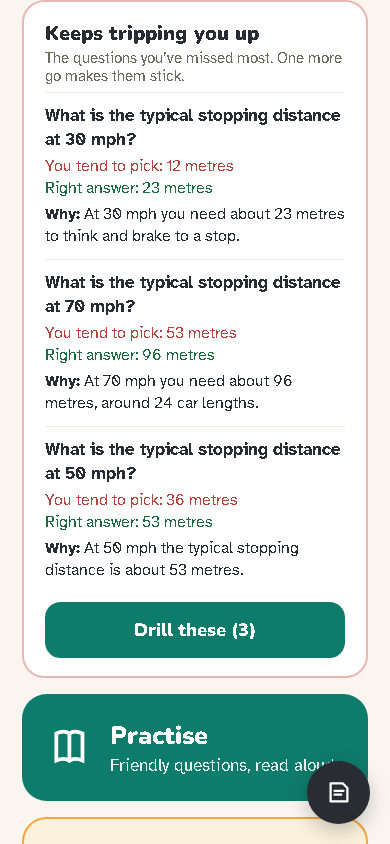
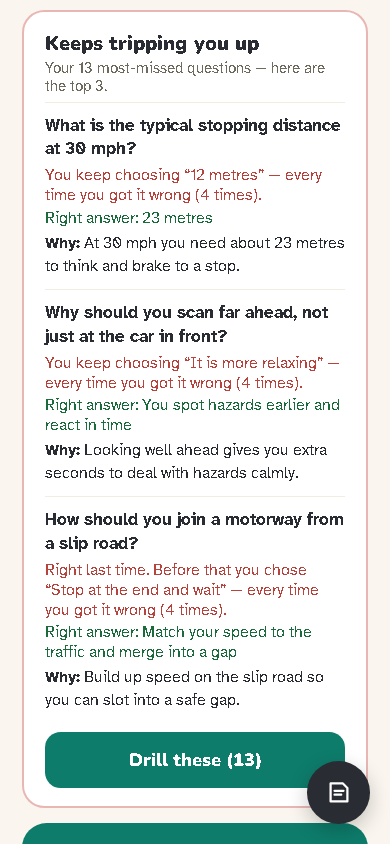
docs(help): How-to guide covers the new coach screens; guide drift test
help.html now explains the pass prediction, what to work on, the study
plan (new section), streak freezes, the badge nudge, "you keep choosing",
the Same wrong answer again filter and the family board (new section,
and its Settings switch). Two lines had gone wrong with this section:
"Miss a day and it starts again from 1" and "You tend to pick".
Five new screenshots, home.png and tripping.png re-taken (390x844).

help.html is the Pages lane's file; its section (#2) had merged and
finished, and its "every Settings switch is explained" test failed on
the new Family board switch, so it is updated here (said on #2 and #8).

Also: a test that the guide's numbers match coach.js and TTInsights,
and the pending-pages skip list removed (every linked page has landed).

diff --git a/help.html b/help.html
@@ -54,9 +54,11 @@
           <li><a href="#answers">My answers and More like this</a></li>
           <li><a href="#signs">Road signs</a></li>
           <li><a href="#progress">My Progress, levels and badges</a></li>
+          <li><a href="#plan">Study plan</a></li>
           <li><a href="#print">Print</a></li>
           <li class="toc-group">Your app</li>
           <li><a href="#settings">Settings</a></li>
+          <li><a href="#family">Family board</a></li>
           <li><a href="#reminders">Daily reminders</a></li>
           <li><a href="#notes">Notes</a></li>
           <li><a href="#offline">Offline and syncing</a></li>
@@ -169,17 +171,20 @@
           <div>
             <p>Home is where every part of the app starts. From the top:</p>
             <ul>
-              <li><strong>Day streak</strong> — how many days in a row you've reached your daily goal. Miss a day and it starts again from 1.</li>
+              <li><strong>Day streak</strong> — how many days in a row you've reached your daily goal. Under it, the <strong>streak freezes</strong> you hold: miss a day and a freeze saves your streak; with none, it starts again. Tap it to see how freezes work. <a href="#freezes">More below.</a></li>
               <li><strong>Today's goal</strong> — questions answered today out of your goal (10, 20 or 30; change it in <span class="path">Settings</span>).</li>
               <li><strong>XP and level</strong> — you earn 10 XP for every right answer and 50 more for passing a mock test. Every 500 XP is a new level, from <em>Provisional</em> up to <em>Full Licence</em>. Tap the level bar to see your <a href="#progress">badges</a>.</li>
-              <li><strong>Countdown</strong> — if you've set your theory test date in <span class="path">Settings</span>, Home shows the days left.</li>
+              <li><strong>Close to a badge</strong> — once you're most of the way to a badge, the level card says what's left, for example "2 more right answers in a row earns Ten in a row".</li>
+              <li><strong>Countdown</strong> — if you've set your theory test date, Home shows the days left and how many questions today's plan asks. Tap it for your <a href="#plan">study plan</a>.</li>
               <li><strong>Today's lesson</strong> — the best thing to do next, built from your answers. <a href="#lesson">More below.</a></li>
+              <li><strong>What to work on</strong> — the topic where more right answers would lift your mock score most, with a button to drill it. <a href="#workon">More below.</a></li>
               <li><strong>Keeps tripping you up</strong> — appears once there are questions you keep getting wrong. <a href="#tripping">More below.</a></li>
+              <li><strong>Family board</strong> — only if you switch it on in Settings. <a href="#family">More below.</a></li>
             </ul>
             <p>Then the buttons for everything else: <a href="#practise">Practise</a>, <a href="#practise">Focus Drill</a>, <a href="#answers">My answers</a>, <a href="#flagged">Flagged</a>, <a href="#mock">Mock Test</a>, <a href="#signs">Road Signs</a>, <a href="#progress">My Progress</a> and <a href="#print">Print</a>. At the very bottom, <a href="#settings">Settings</a> and <strong>Help</strong>, which opens this guide in its own tab.</p>
           </div>
           <figure class="shot">
-            <a href="help/img/home.png"><img src="help/img/home.png" width="390" height="844" alt="Home: Hi Catie, a 6 day streak, 22 of 20 of today's goal, 1240 XP at level 3, the level bar, a countdown of 24 days to the theory test, and the Today's lesson button." loading="lazy"></a>
+            <a href="help/img/home.png"><img src="help/img/home.png" width="390" height="844" alt="Home: Hi Catie, a 9 day streak with 1 freeze, 8 of 10 of today's goal, 1240 XP at level 3, the level bar with Close to a badge: 2 more right answers in a row earns Ten in a row, 18 days until the theory test with today's plan of 18 questions, and the Today's lesson button." loading="lazy"></a>
             <figcaption>The top of Home</figcaption>
           </figure>
           <figure class="shot">
@@ -196,6 +201,30 @@
           <figure class="shot">
             <a href="help/img/whats-new.png"><img src="help/img/whats-new.png" width="390" height="844" alt="Home with a What's new card at the top listing five changes, such as Tricky? keeping a question in Flagged, and a Got it button." loading="lazy"></a>
             <figcaption>What's new, after an update</figcaption>
+          </figure>
+        </div>
+        <div class="step">
+          <div>
+            <h3 id="freezes">Streak freezes</h3>
+            <p>A day counts towards your streak when you reach your daily goal. Every 7 days you reach it earns a <strong>streak freeze</strong>, and you can hold 2 at a time. If you miss a day, a freeze is used up instead and your streak carries on (it doesn't grow that day). With no freeze left, a missed day starts the streak again.</p>
+            <p>Tap the streak on Home to see how many freezes you have, how many more goal days earn the next one, and which days a freeze saved. Today never breaks your streak while it's still today.</p>
+            <p>Days count by your own clock. A day you reach your goal stays counted even if you raise your goal later.</p>
+          </div>
+          <figure class="shot">
+            <a href="help/img/home-freezes.png"><img src="help/img/home-freezes.png" width="390" height="844" alt="Home with the streak tapped: a 9 day streak with 1 freeze, and a blue box saying Streak freezes: you have 1, how freezes are earned, and 5 more goal days earn the next one." loading="lazy"></a>
+            <figcaption>Tap the streak to see your freezes</figcaption>
+          </figure>
+        </div>
+        <div class="step">
+          <div>
+            <h3 id="workon">What to work on</h3>
+            <p>Once you've answered some questions, this card names the topic where more right answers would lift your expected mock score the most, in words like: "You lose about 3 of the 4 marks on Safety margins in a mock — about 10 more right answers here would add ~1.2 to your expected score."</p>
+            <p>Tap <strong>Drill &lt;topic&gt; now</strong> for a short drill on that topic: questions you keep missing first, then flagged ones, ones due again, then new ones. A question you get wrong comes round again. Underneath, <strong>After that</strong> names the next topic with its own button.</p>
+            <p>Until you've answered 50 questions the card says it's early days: with only a few answers the numbers can swing a lot.</p>
+          </div>
+          <figure class="shot">
+            <a href="help/img/home-work-on.png"><img src="help/img/home-work-on.png" width="390" height="844" alt="The What to work on card: you lose about 3.1 of the 4 marks on Safety margins in a mock, a Drill Safety margins now button, and After that: Vehicle handling with its own button." loading="lazy"></a>
+            <figcaption>What to work on</figcaption>
           </figure>
         </div>
       </section>
@@ -231,7 +260,7 @@
             <p>When there are questions you keep getting wrong, this card appears on Home (and at the end of a practice session). For your top 3 it shows:</p>
             <ul>
               <li>the question,</li>
-              <li><strong>You tend to pick</strong> — the wrong answer you usually choose, which is often the real reason it keeps going wrong,</li>
+              <li><strong>You keep choosing</strong> — the wrong answer you've picked more than once, and how often (for example "3 of your 4 wrong answers"), which is often the real reason it keeps going wrong. If your latest answer was right it says so, and which wrong answer you used to choose. When your wrong answers were all different, it says how many times you've missed it instead,</li>
               <li><strong>Right answer</strong>,</li>
               <li>a <strong>Memory tip</strong> if one has been approved for that question, or otherwise <strong>Why</strong> — the question's own explanation.</li>
             </ul>
@@ -240,7 +269,7 @@
             <p>A memory tip is a short way to remember one answer. Tips are drafted from the question's own wording by an AI program run by the admin, checked by a program for numbers that aren't in the question, and only shown to you once the admin has read and approved each one (<a href="#tips">see Memory tips</a>).</p>
           </div>
           <figure class="shot">
-            <a href="help/img/tripping.png"><img src="help/img/tripping.png" width="390" height="844" alt="The Keeps tripping you up card: three stopping-distance questions, each with You tend to pick in red, Right answer in green and Why, and a Drill these (3) button." loading="lazy"></a>
+            <a href="help/img/tripping.png"><img src="help/img/tripping.png" width="390" height="844" alt="The Keeps tripping you up card: three questions, each with You keep choosing a wrong answer and how many times in red, Right answer in green and Why, and a Drill these (13) button." loading="lazy"></a>
             <figcaption>Keeps tripping you up</figcaption>
           </figure>
         </div>
@@ -371,7 +400,7 @@
           <div>
             <p><strong>My answers</strong> lists every question you've answered, in practice and in mocks, newest first: what you said, the right answer, and how often you've got it right and wrong.</p>
             <ol>
-              <li>Show <strong>All</strong>, <strong>Wrong last time</strong> or <strong>Right last time</strong>.</li>
+              <li>Show <strong>All</strong>, <strong>Wrong last time</strong> or <strong>Right last time</strong> — or <strong>Same wrong answer again</strong>: the questions where you've picked the same wrong answer more than once. Those rows say which answer and how often, like "You keep choosing “12 metres” — 3 of your 4 wrong answers".</li>
               <li>Tick the questions you want (or <strong>Tick all</strong>; <strong>Clear ticks</strong> to start again).</li>
               <li>Then choose from the bar at the bottom:
                 <ul>
@@ -440,12 +469,50 @@
         </div>
         <div class="step">
           <div>
+            <h3 id="prediction">Pass prediction</h3>
+            <p>Under the dial, <strong>Pass prediction</strong> gives two numbers for one of the app's 50-question mocks (<a href="#mock">Like the real test</a>, which asks 3 or 4 questions from each topic):</p>
+            <ul>
+              <li><strong>Expected mock score</strong> — out of 50, from how often you get each topic right, with recent answers counting more (an answer 14 days older than your newest counts half as much).</li>
+              <li><strong>Chance of 43 or more</strong> — how likely a pass is on those rates. It never says 0% or 100%: it shows "under 1%" or "over 99%" instead.</li>
+            </ul>
+            <p><strong>What would raise it</strong> is the same sentence as <a href="#workon">What to work on</a>. The prediction needs 50 answers; before that it says <strong>Not enough answers yet</strong> and how many more it needs.</p>
+            <p class="note"><strong>An estimate, not a promise.</strong> It comes only from your own answers and mock scores in the app. It hasn't been checked against real theory test results.</p>
+            <p>The <strong>Study plan</strong> button further down opens your <a href="#plan">study plan</a>.</p>
+          </div>
+          <figure class="shot">
+            <a href="help/img/progress-prediction.png"><img src="help/img/progress-prediction.png" width="390" height="844" alt="Pass prediction on My Progress: an expected mock score of 35 out of 50, a chance of 43 or more of under 1%, what would raise it, and a note that it is an estimate from your own answers." loading="lazy"></a>
+            <figcaption>Pass prediction</figcaption>
+          </figure>
+        </div>
+        <div class="step">
+          <div>
             <h3>Levels and badges</h3>
-            <p>Tap the level bar on Home to see your level, how much XP to the next one, and 10 badges earned from what you actually do: <strong>First go</strong>, <strong>Ten in a row</strong>, <strong>Century</strong> (100 answered), <strong>Five hundred</strong>, <strong>Week on the trot</strong> (7-day streak), <strong>Month of practice</strong> (30-day streak), <strong>Mock passed</strong>, <strong>Three mocks passed</strong>, <strong>Topic mastered</strong> (85% on a topic after 10 or more answers) and <strong>Every topic tried</strong>. Badges you haven't earned yet show how close you are, like "6 / 7".</p>
+            <p>Tap the level bar on Home to see your level, how much XP to the next one, and 10 badges earned from what you actually do: <strong>First go</strong>, <strong>Ten in a row</strong>, <strong>Century</strong> (100 answered), <strong>Five hundred</strong>, <strong>Week on the trot</strong> (7-day streak), <strong>Month of practice</strong> (30-day streak), <strong>Mock passed</strong>, <strong>Three mocks passed</strong>, <strong>Topic mastered</strong> (85% on a topic after 10 or more answers) and <strong>Every topic tried</strong>. Badges you haven't earned yet show how close you are, like "6 / 7". The streak badges count your streak as Home shows it, so a day saved by a streak freeze keeps them going.</p>
           </div>
           <figure class="shot">
             <a href="help/img/badges.png"><img src="help/img/badges.png" width="390" height="844" alt="The Badges screen: Level 4 Roundabout Ready with an XP bar, and badges First go, Ten in a row and Century earned, Five hundred at 180 of 500, and Week on the trot at 6 of 7." loading="lazy"></a>
             <figcaption>Badges</figcaption>
+          </figure>
+        </div>
+      </section>
+
+      <!-- ============ study plan ============ -->
+      <section id="plan" aria-labelledby="h-plan">
+        <h2 id="h-plan"><span class="num"></span>Study plan</h2>
+        <div class="step">
+          <div>
+            <p>Set your theory test date (in the <a href="#setup">quick setup</a>, <span class="path">Settings</span>, or on this screen) and the app plans every day up to the day before your test. Open it by tapping the countdown on Home, or <strong>Study plan</strong> on My Progress.</p>
+            <ul>
+              <li><strong>Today</strong> — how many questions today needs, how many you've done, and two <strong>focus</strong> topics. <strong>Practise today's topics now</strong> starts a drill on them.</li>
+              <li><strong>Missed a day?</strong> The plan says which days, and spreads their questions over the days left, so each day asks a little more. It never asks less than your daily goal.</li>
+              <li><strong>Why this many</strong> — the plan is your daily goal for each day, raised if needed so that every question you haven't seen yet comes up before test day. The line under Today says when that has happened.</li>
+              <li><strong>Day by day</strong> — the next 14 days, each with its topics and number of questions. The focus topics take turns, starting with the ones that would lift your score most.</li>
+            </ul>
+            <p>The plan is worked out again every time you open it, from your answers so far. Changing your test date starts a fresh plan from that day. On test day it just wishes you luck, and once the date has passed it asks for the next one.</p>
+          </div>
+          <figure class="shot">
+            <a href="help/img/plan.png"><img src="help/img/plan.png" width="390" height="844" alt="The Study plan screen: test on Mon 12 Oct, 18 days to go; today 18 questions with 8 done and focus topics Safety margins and Vehicle handling; a note that 1 missed day's questions are spread over the days left; and the first days of the plan." loading="lazy"></a>
+            <figcaption>The study plan</figcaption>
           </figure>
         </div>
       </section>
@@ -485,10 +552,11 @@
               <div><dt>Easy-reading font</dt><dd>Switches to a font that is easier to read (Lexend).</dd></div>
               <div><dt>High contrast</dt><dd>Stronger colours and darker text.</dd></div>
               <div><dt>Reduce motion</dt><dd>Turns off the little animations.</dd></div>
+              <div><dt>Family board</dt><dd>Off until you switch it on. Adds a card to Home comparing your streak and this week's questions with the other learners on this account who have switched it on too. <a href="#family">More below.</a></dd></div>
               <div><dt>Voice and Voice speed</dt><dd>Choose which voice reads aloud (the best-sounding ones are marked ★ and the app picks one for you), <strong>Slower</strong>, <strong>Normal</strong> or <strong>Faster</strong>, and <strong>Play sample</strong> to hear it.</dd></div>
               <div><dt>My profile</dt><dd><strong>Upload a photo</strong> for your profile, or remove it.</dd></div>
               <div><dt>Daily goal</dt><dd>10, 20 or 30 questions a day to keep your streak.</dd></div>
-              <div><dt>My theory test date</dt><dd>Shows a countdown on Home.</dd></div>
+              <div><dt>My theory test date</dt><dd>Shows a countdown on Home and sets up your <a href="#plan">study plan</a>. A new date starts a fresh plan.</dd></div>
               <div><dt>Daily reminder and Reminder time</dt><dd>See <a href="#reminders">Daily reminders</a>.</dd></div>
               <div><dt>Quick setup</dt><dd><strong>Run it again</strong> goes back through the <a href="#setup">quick setup</a>: test date, daily goal and reminder, one at a time.</dd></div>
               <div><dt>Profiles</dt><dd>Change the learner's and the parent's names, and <strong>+ Add another learner</strong>.</dd></div>
@@ -514,6 +582,22 @@
           <figure class="shot">
             <a href="help/img/settings-help.png"><img src="help/img/settings-help.png" width="390" height="844" alt="The bottom of Settings: Quick setup with a Run it again button, Profiles, Add another learner, Reset all progress, and Help and legal with Help, About, Privacy and Terms." loading="lazy"></a>
             <figcaption>Quick setup, and Help and legal</figcaption>
+          </figure>
+        </div>
+      </section>
+
+      <!-- ============ family board ============ -->
+      <section id="family" aria-labelledby="h-family">
+        <h2 id="h-family"><span class="num"></span>Family board</h2>
+        <div class="step">
+          <div>
+            <p>If more than one learner uses this account, the family board lets you see how you're all getting on. It's <strong>off</strong> until you switch on <span class="path">Settings → Family board</span>, and each learner decides for themselves: only learners who have switched it on appear, and only they see the board.</p>
+            <p>For each of them it shows <strong>questions this week</strong> (since Monday) and their current <strong>streak</strong>, busiest first, with "(you)" by your name. Until someone else switches it on, it says it's only you so far.</p>
+            <p class="note"><strong>Nothing extra leaves the device.</strong> The board is worked out on the phone or tablet from this account's own learners. It never compares you with anyone outside your account.</p>
+          </div>
+          <figure class="shot">
+            <a href="help/img/family-board.png"><img src="help/img/family-board.png" width="390" height="844" alt="The bottom of Home with the Family board card: Sam with 66 questions this week and a 3-day streak, and Catie (you) with 46 questions this week and a 9-day streak." loading="lazy"></a>
+            <figcaption>The family board, near the bottom of Home</figcaption>
           </figure>
         </div>
       </section>

diff --git a/tests/app-files.test.js b/tests/app-files.test.js
@@ -125,20 +125,11 @@ test('every link in the page opens in its own tab without handing it the app win
   }
 });
 
-// help.html and legal/*.html come from issue #2, written in parallel by another agent
-// (about.html, issue #3, has landed and is checked for real). A page still missing here
-// skips with that reason; the moment it is on the branch its check runs for real. Delete
-// a line once its page has landed.
-const PENDING_PAGES = {
-  'help.html': 'issue #2 (help-guide) is writing it',
-  'legal/privacy.html': 'issue #2 (help-guide) is writing it',
-  'legal/terms.html': 'issue #2 (help-guide) is writing it'
-};
+// Every help and legal page the app links to is a real file (help.html and legal/*.html
+// from issue #2, about.html from #3 have all landed, so nothing is waiting any more).
 for (const l of W.LINKS) {
-  const there = fs.existsSync(path.join(root, l.href));
-  const skip = !there && PENDING_PAGES[l.href] ? l.href + ' is not on this branch yet: ' + PENDING_PAGES[l.href] : false;
-  test('the ' + l.label + ' link points at a file that exists (' + l.href + ')', { skip }, () => {
-    assert.ok(there, l.href + ' is linked from the app but does not exist');
+  test('the ' + l.label + ' link points at a file that exists (' + l.href + ')', () => {
+    assert.ok(fs.existsSync(path.join(root, l.href)), l.href + ' is linked from the app but does not exist');
   });
 }
 
@@ -436,4 +427,24 @@ test('insights: drill buttons do not promise a session length the drill does not
   assert.match(app, /workBtn: work\.show \? 'Drill ' \+ work\.name \+ ' now'/);
   assert.doesNotMatch(app, /' questions' : ''/);
   assert.match(app, /planGoLabel: [^\n]*left today\)'/);
+});
+
+test('insights: the How-to guide explains them with the numbers the app really uses', () => {
+  // help.html (issue #2's guide) describes these screens; when coach.js or TTInsights.CFG changes,
+  // this says which sentence of the guide to update.
+  const guideText = fs.readFileSync(path.join(root, 'help.html'), 'utf8').replace(/<[^>]+>/g, ' ').replace(/&lt;/g, '<').replace(/&gt;/g, '>').replace(/&amp;/g, '&').replace(/\s+/g, ' ');
+  const C = coach.coachDefaults;
+  const expect = [
+    'an answer ' + C.halfLifeDays + ' days older than your newest counts half as much',
+    'Chance of ' + C.passMark + ' or more',
+    'The prediction needs ' + C.minEvidence + ' answers',
+    'Until you\'ve answered ' + C.minEvidence + ' questions',
+    'Every ' + C.freeze.every + ' days you reach it earns a streak freeze , and you can hold ' + C.freeze.max,
+    'about ' + C.whatIfRight + ' more right answers here',
+    'the next ' + I.CFG.planDaysShown + ' days',
+    'questions this week (since ' + ['Sunday', 'Monday'][I.CFG.weekStartsOn] + ')'
+  ];
+  for (const e of expect) assert.ok(guideText.includes(e), 'help.html should say: "' + e + '"');
+  for (const id of ['freezes', 'workon', 'prediction', 'plan', 'family']) assert.match(fs.readFileSync(path.join(root, 'help.html'), 'utf8'), new RegExp('id="' + id + '"'), 'help.html has no #' + id);
+  assert.doesNotMatch(guideText, /You tend to pick|Miss a day and it starts again from 1/, 'help.html still describes the old wording');
 });

diff --git a/changes/section-ui-insights.md b/changes/section-ui-insights.md
@@ -42,11 +42,22 @@
   drill doesn't keep (a stuck question comes round again on top); they no longer promise one.
 - The screen words live in one page-head block, `window.TTInsights` (like `TTWelcome`), with its
   tuning in `TTInsights.CFG`; the coach's numbers come from `TTCoach.coachDefaults`, not copies.
-- Tests (`tests/app-files.test.js`, +16, run against the real `coach.js`): dates and weeks, goal
+- **How-to guide (`help.html`) updated for all of the above**: new sections **Study plan** and
+  **Family board** (both in the contents), new parts **Streak freezes** and **What to work on**
+  under Home and **Pass prediction** under My Progress, the Family board switch under Settings,
+  and "Same wrong answer again" under My answers. Two lines had become wrong and were rewritten:
+  "Miss a day and it starts again from 1" (freezes now save a day) and "You tend to pick". Five
+  new screenshots and two re-taken (`home.png`, `tripping.png`), all 390×844, light.
+  `help.html` is the Pages lane's file: its section (#2) had merged and finished, nobody was
+  working on it, and its test "every Settings switch in the app is explained in the guide"
+  failed on the new switch, so it was updated here and said so on issues #2 and #8.
+- Tests (`tests/app-files.test.js`, +17, run against the real `coach.js`): dates and weeks, goal
   days, the streak tile, pass chance wording, prediction, what to work on, the study plan (all
   four states, missed days, the unseen-question raise), misconception lines, the badge nudge,
   the family board, the wiring on each screen, the family board being off by default, the
-  numbers coming from `coach.js`, and the two fixes above.
+  numbers coming from `coach.js`, the guide's numbers matching `coach.js`, and the two fixes
+  above. The "pages still being written" skip list is gone: help.html and the legal pages have
+  landed, so every help and legal link is now checked for real.
 
 ## Requirements
 - REQUIREMENTS.md line "**Distractor analysis**: record which wrong option was chosen…" → 🟡
@@ -82,9 +93,12 @@
   says what today needs, and catches up if you miss a day." / "Streak freezes: every 7 goal days
   earns one, and it saves your streak if you miss a day." / "What to work on, on Home, shows the
   topic that would lift your score most."
-- **Help guide (issue #2's `help.html`):** was written before these screens existed, so it
-  doesn't explain the pass prediction, study plan, streak freezes, badge nudge, family board or
-  the "you keep choosing" lines yet. Its owner should add them.
+- **Help guide:** `help.html` explains every new screen (see Changelog). Its `#progress` "Known
+  problem" box about the readiness number is still there: that bug is #12 part D, not fixed here.
+- **Issue #12 (App/UI bugs):** part B's My Progress overflow is fixed here ("Your topics" rows).
+  Its note that the admin dashboard's "Topics — weakest first" rows also overflow at 390px was
+  not checked or changed here. Parts A (screens open mid-scroll), C (notes button over Next) and
+  D (readiness number not drawn) are untouched.
 - The tuning values (70% for "close to a badge", 14 days listed in the plan, Monday week start,
   pass-chance colours at 70% and 40%) are choices, not measurements.
 - Home re-renders in 12–19 ms with 3,000 answers (the app's cap), measured in headless Chromium
